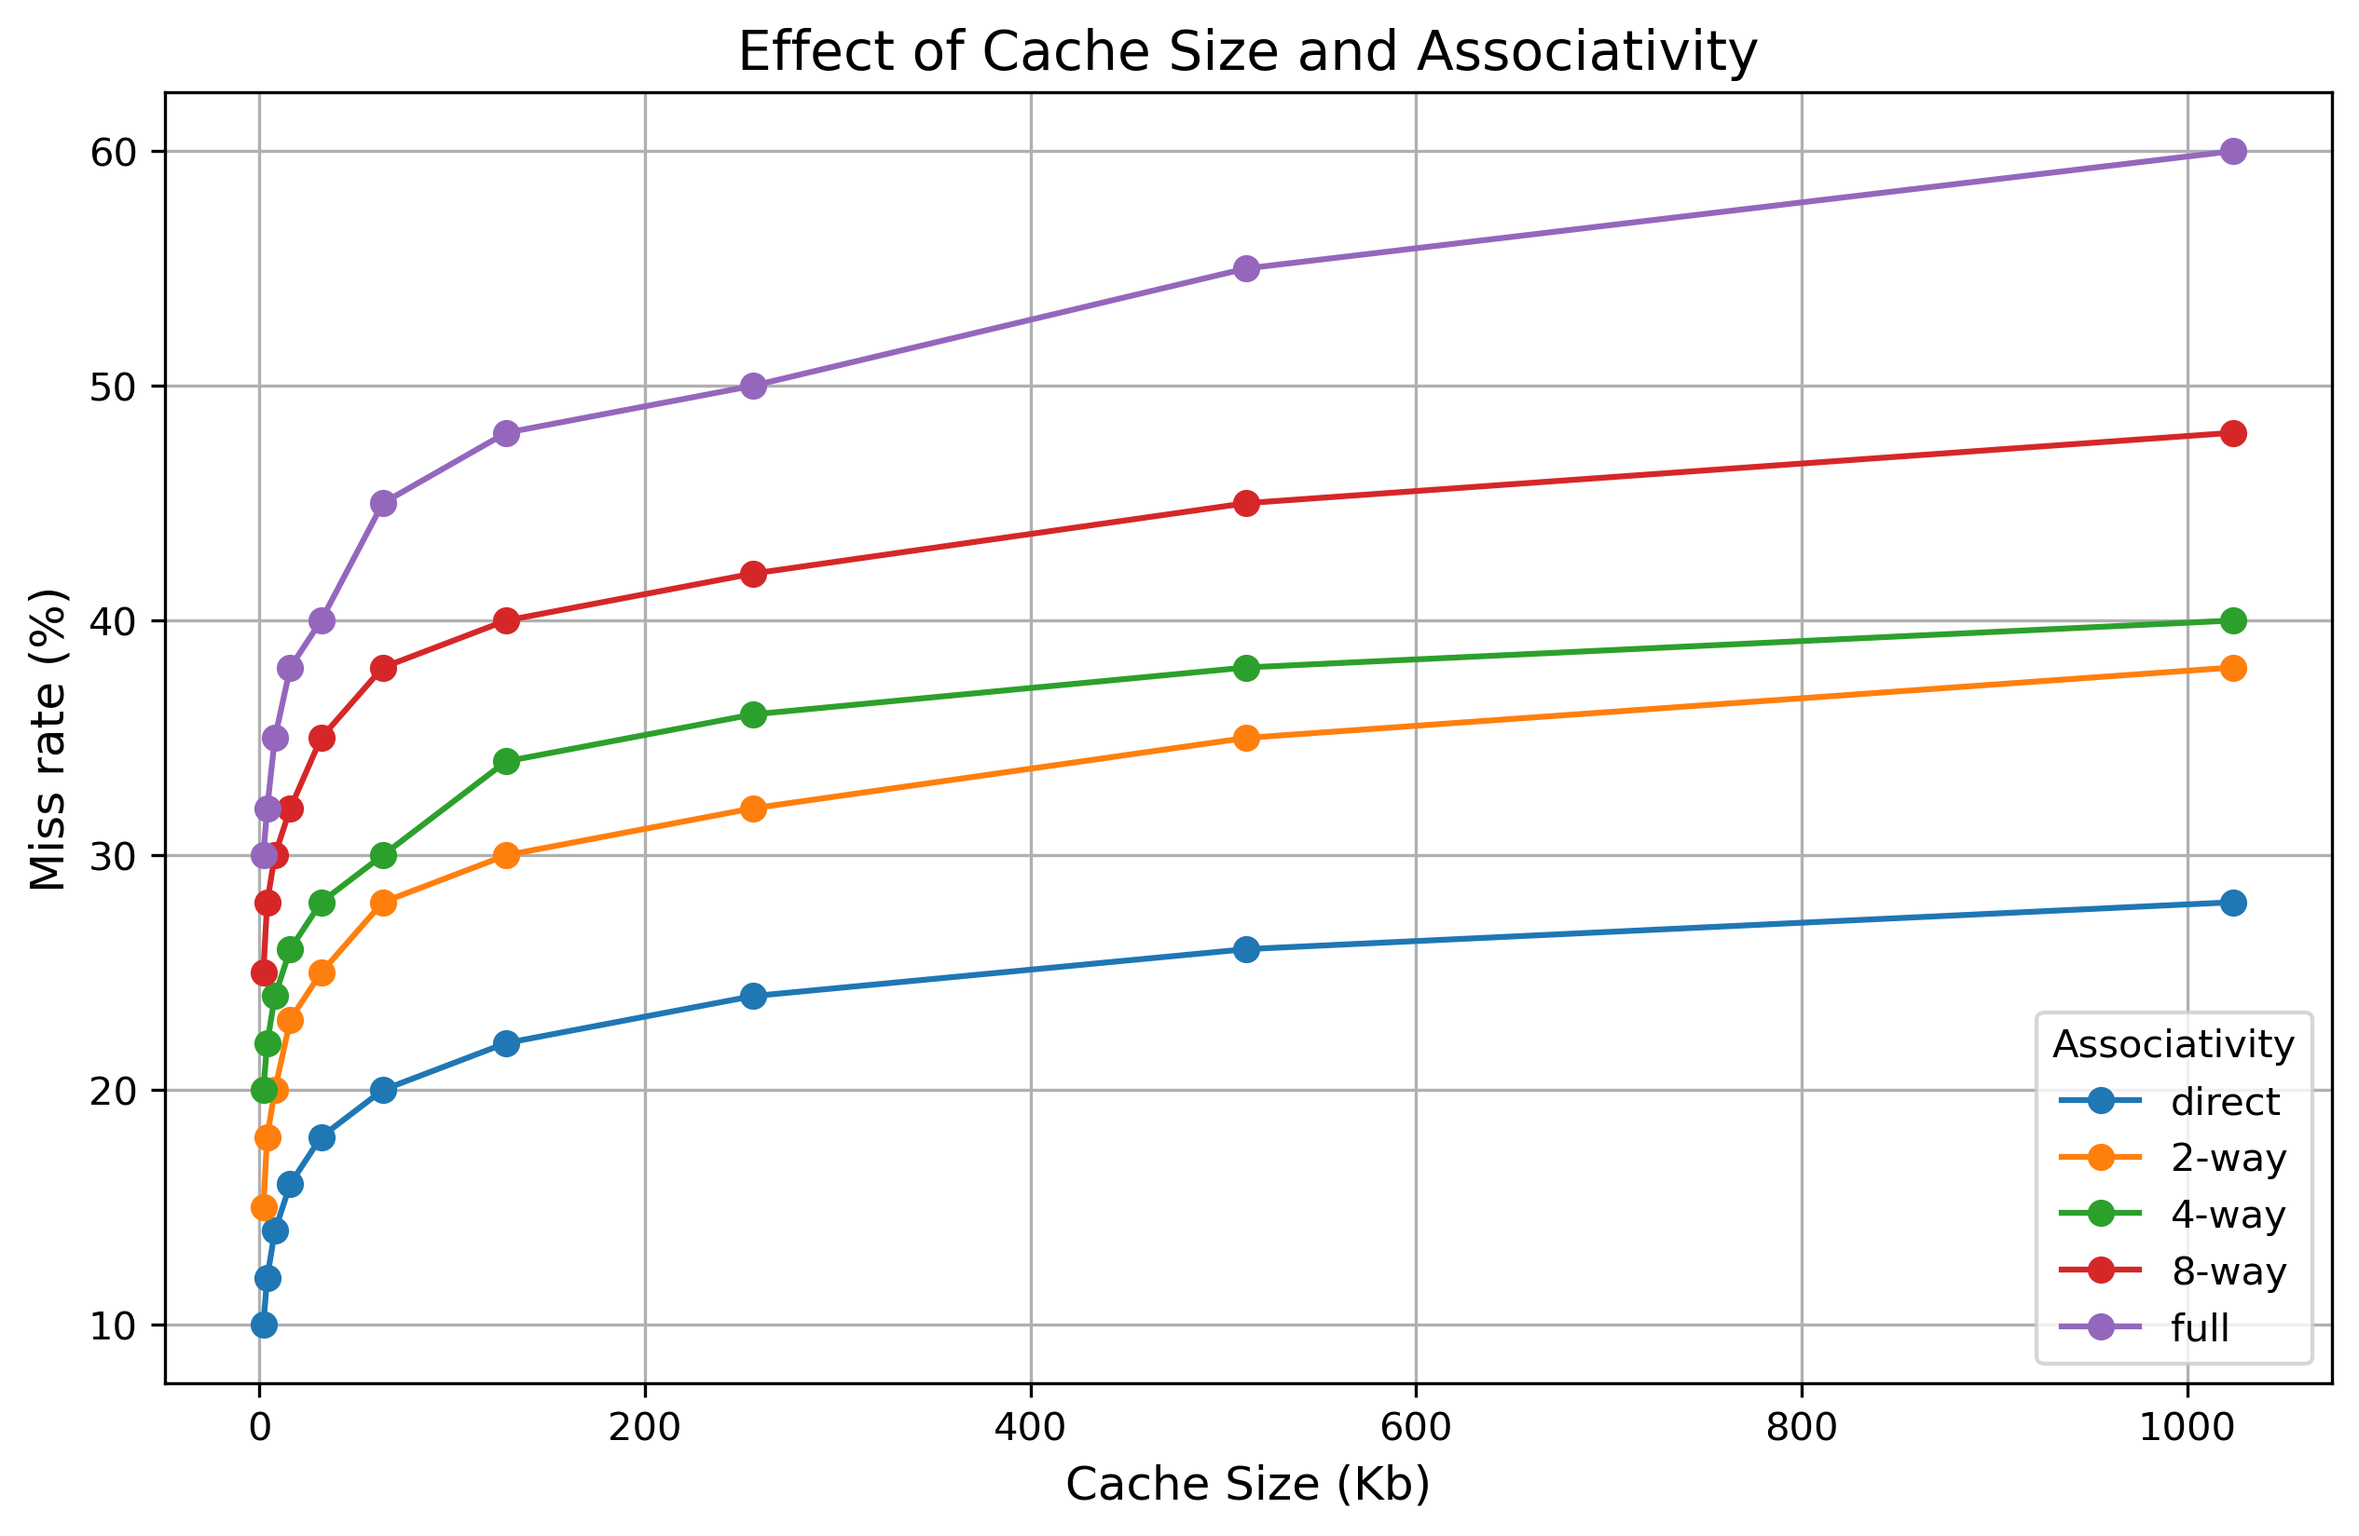
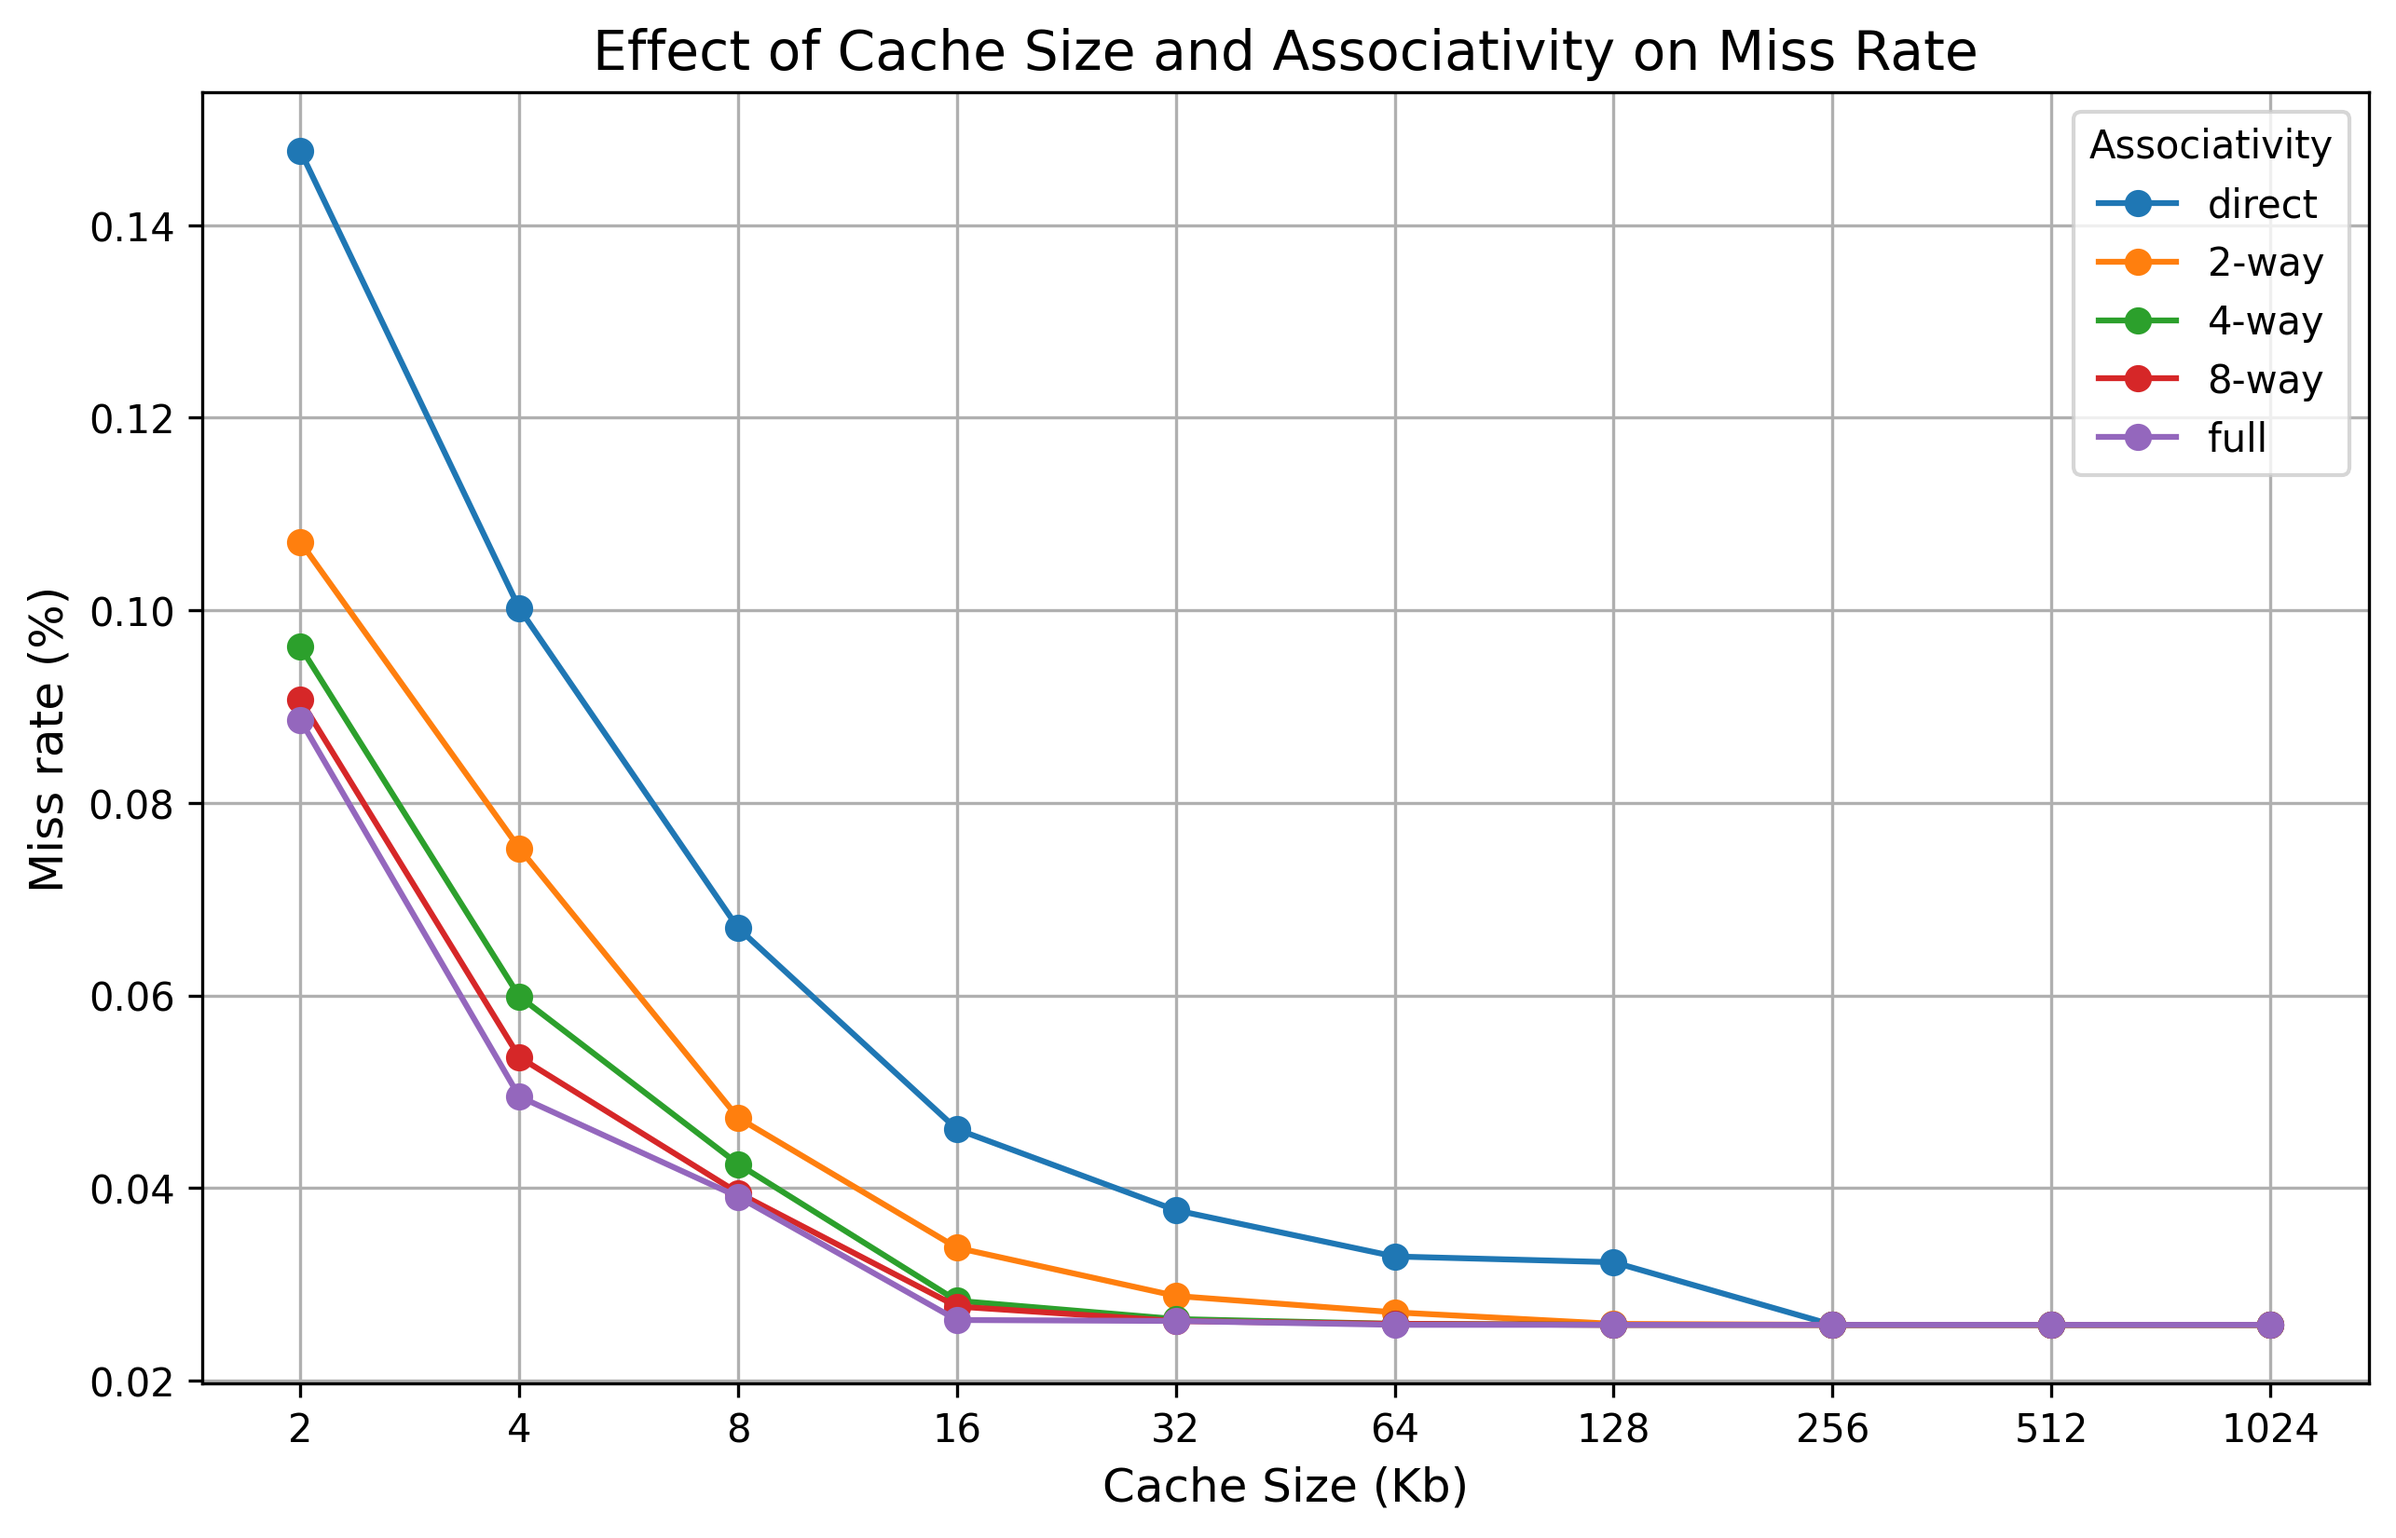
Add fig1

diff --git a/project1_cachesim/Assignment1/solutions/report/figures/fig1/fig1.py b/project1_cachesim/Assignment1/solutions/report/figures/fig1/fig1.py
@@ -1,4 +1,5 @@
 import pandas as pd
+import numpy as np
 import matplotlib.pyplot as plt
 
 # Function to read the CSV file and plot lines
@@ -10,14 +11,22 @@ def plot_csv_data(file_name):
     plt.figure(figsize=(10, 6))
     
     for column in data.columns[1:]:
-        plt.plot(data['size']/1024, data[column], marker='o', label=column)
+        plt.plot(np.log2(data['size']/1024), (data[column]), marker='o', label=column)
     
     # Adding labels and title
     plt.xlabel('Cache Size (Kb)', fontsize=12)
     plt.ylabel('Miss rate (%)', fontsize=12)
-    plt.title('Effect of Cache Size and Associativity', fontsize=14)
+    plt.title('Effect of Cache Size and Associativity on Miss Rate', fontsize=14)
     plt.grid(True)
     plt.legend(title='Associativity', fontsize=10)
+
+
+    # Custom xticks
+    xtick_labels = data['size'] / 1024  # Cache size in KB
+    xtick_positions = np.log2(xtick_labels)  # Corresponding positions in log2 scale
+
+    plt.xticks(ticks=xtick_positions, labels=xtick_labels.astype(int), fontsize=10)
+    
     
     # Save the plot to a file
     plt.savefig('fig1.png', dpi=300, bbox_inches='tight')
